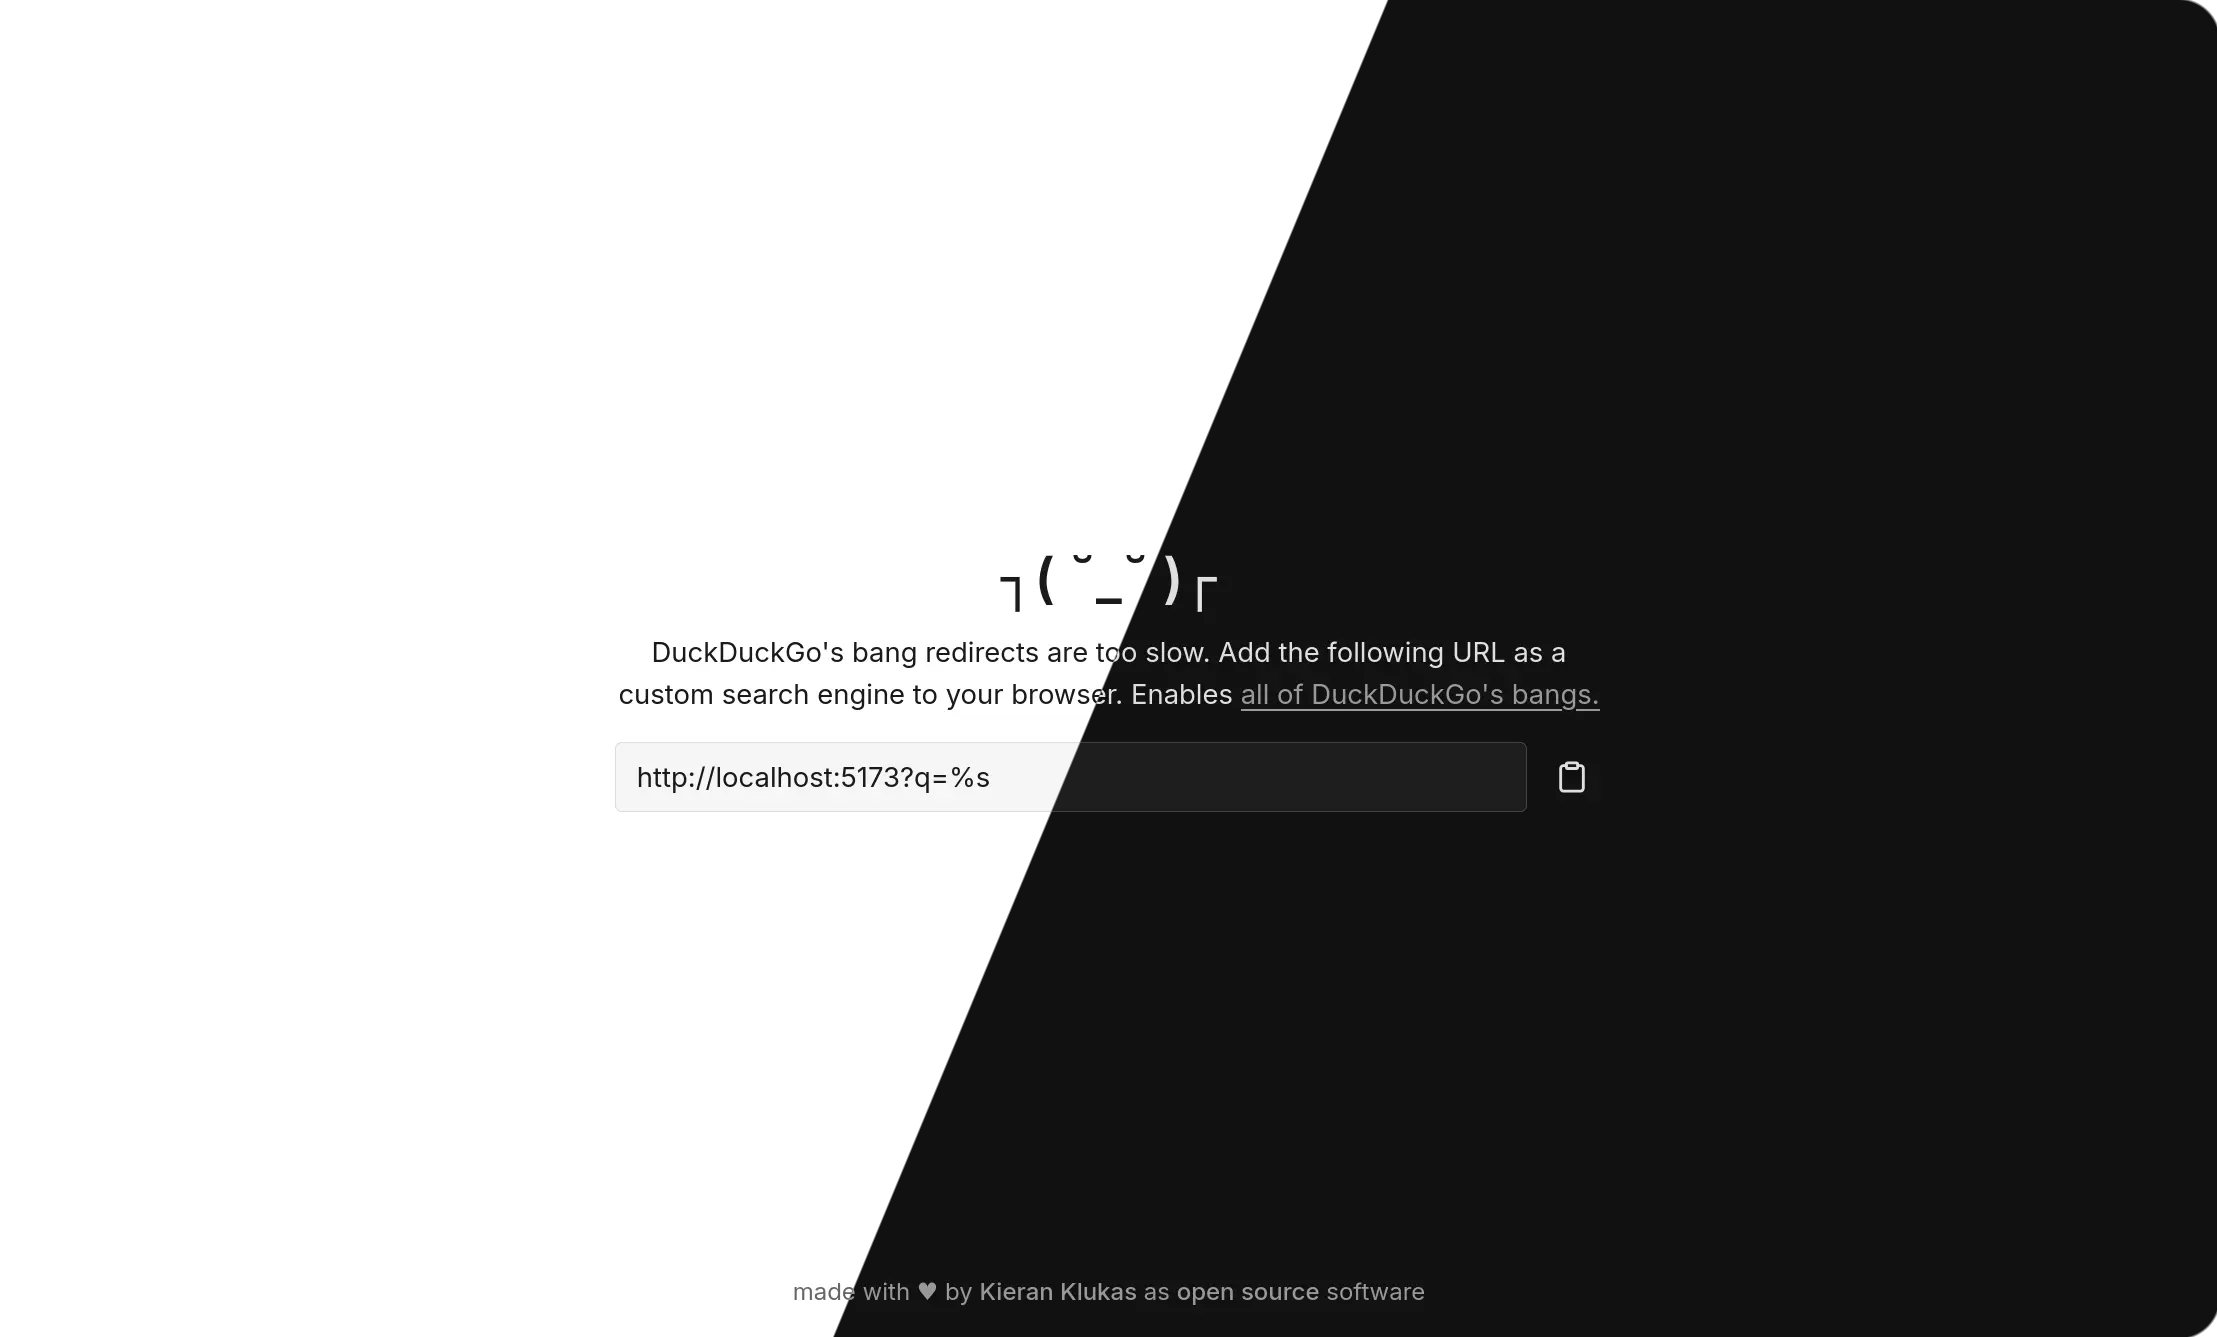
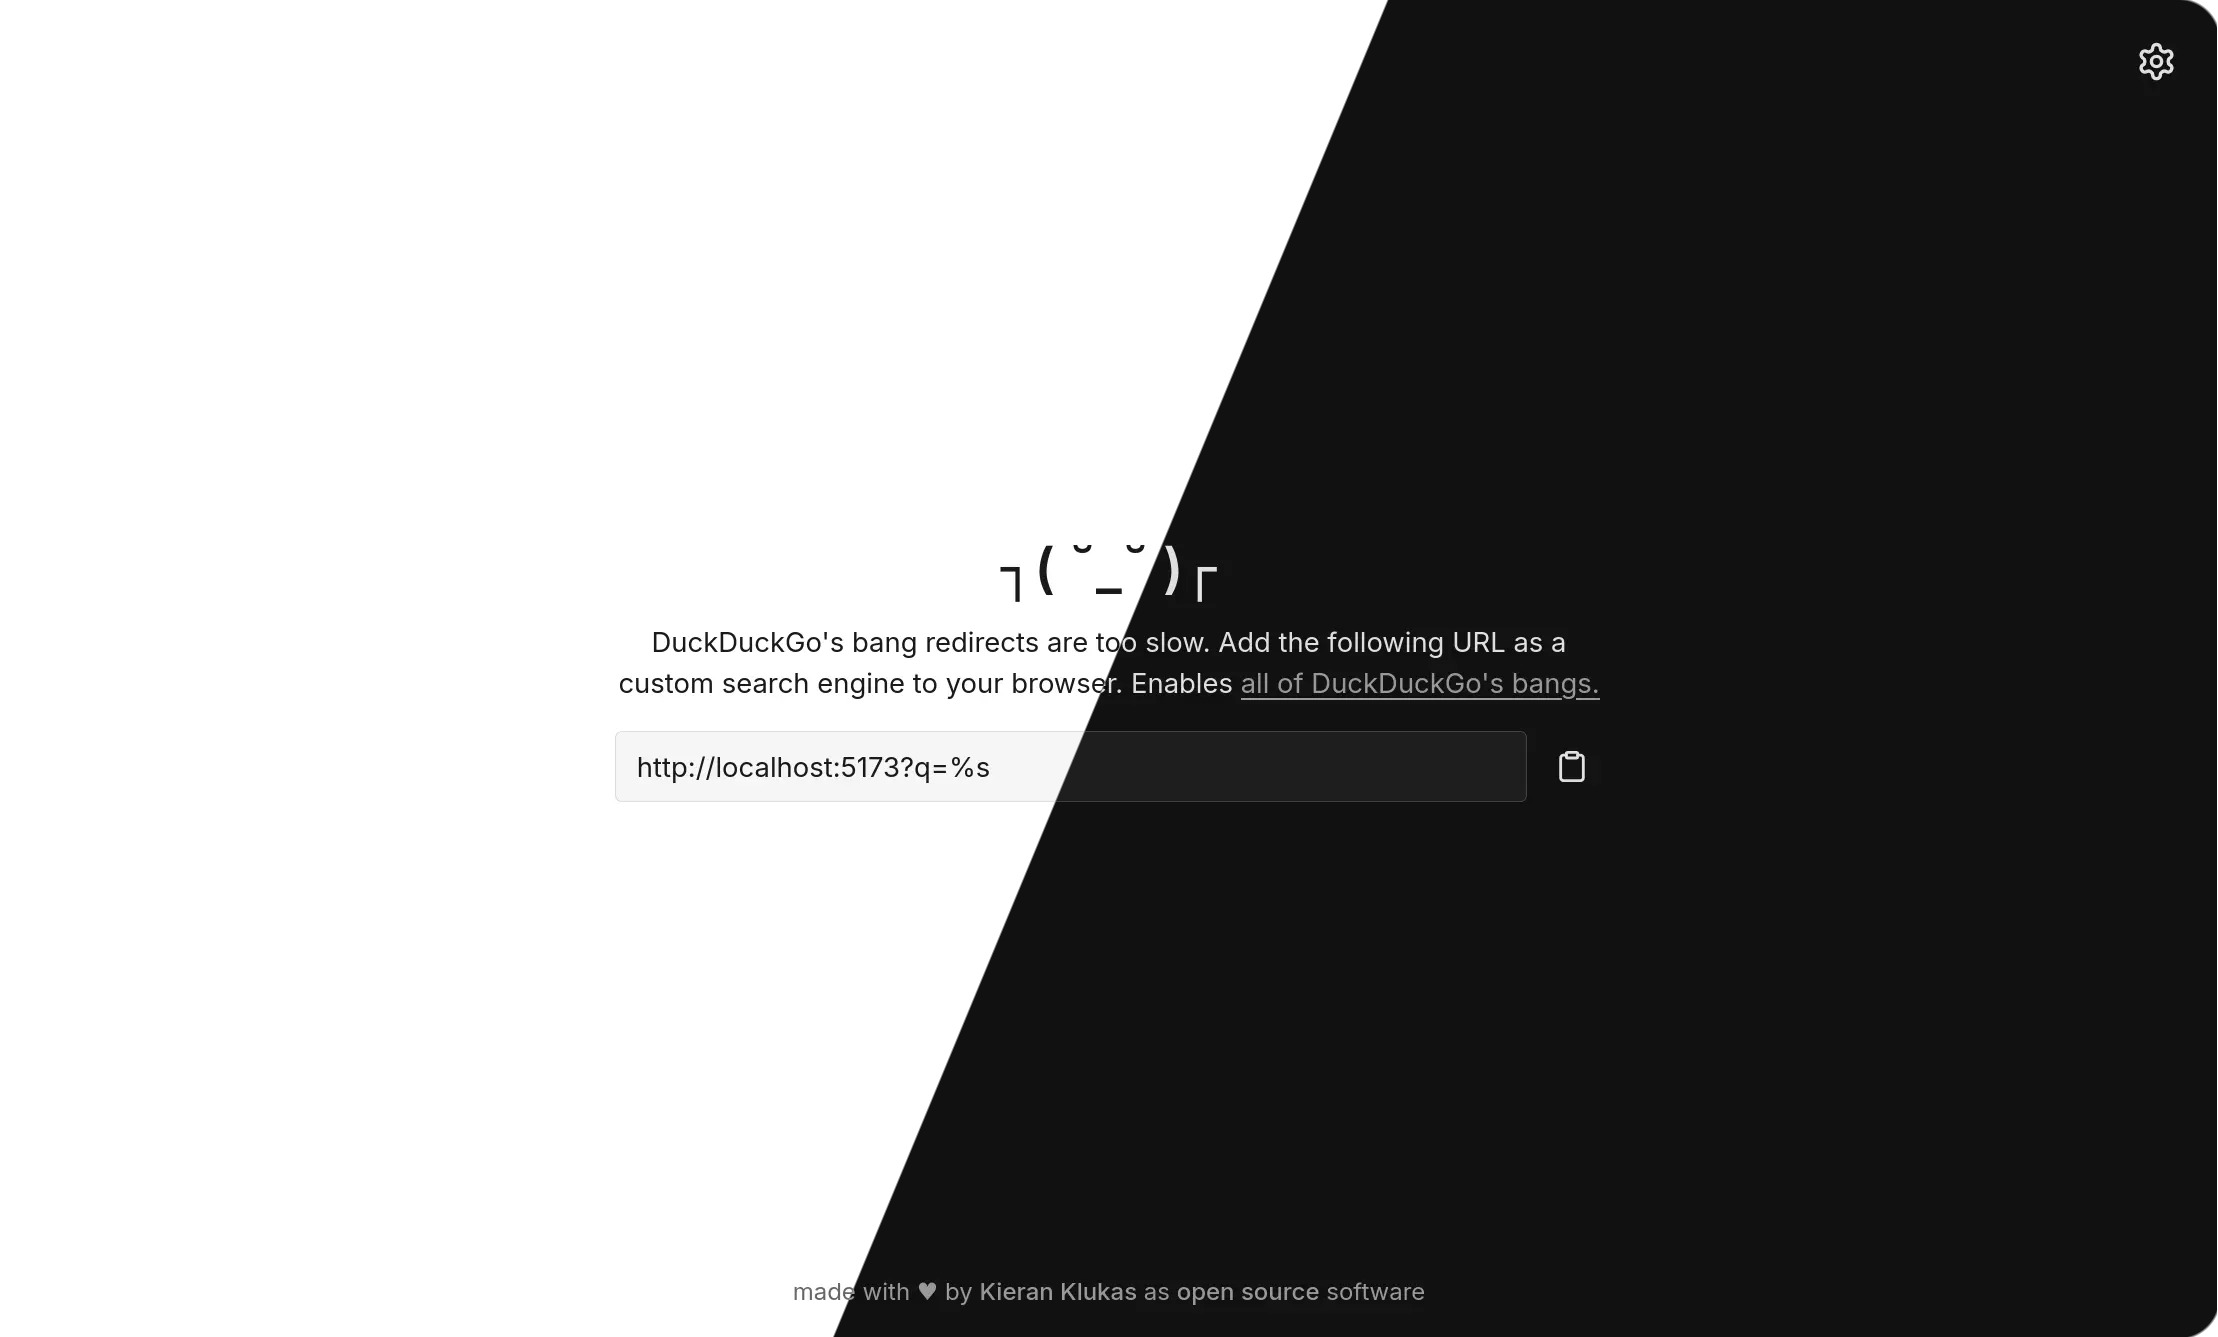
docs: check off settings

Changed region(s): [[0.28, 0.3987, 0.7155, 0.6133], [0.9644, 0.0307, 0.9955, 0.0613]]

diff --git a/README.md b/README.md
@@ -24,7 +24,7 @@ This is primarily my personal fork to experiment with PWAs but I do have a few i
 - [x] Bangs
 - [ ] Search History (clearable ofc and all local)
 - [x] Dark Mode
-- [ ] Settings (for things like disabling search history and changing default bang)
+- [x] Settings (for things like disabling search history and changing default bang)
 
 and then some more really ambitious stuff like:
 
